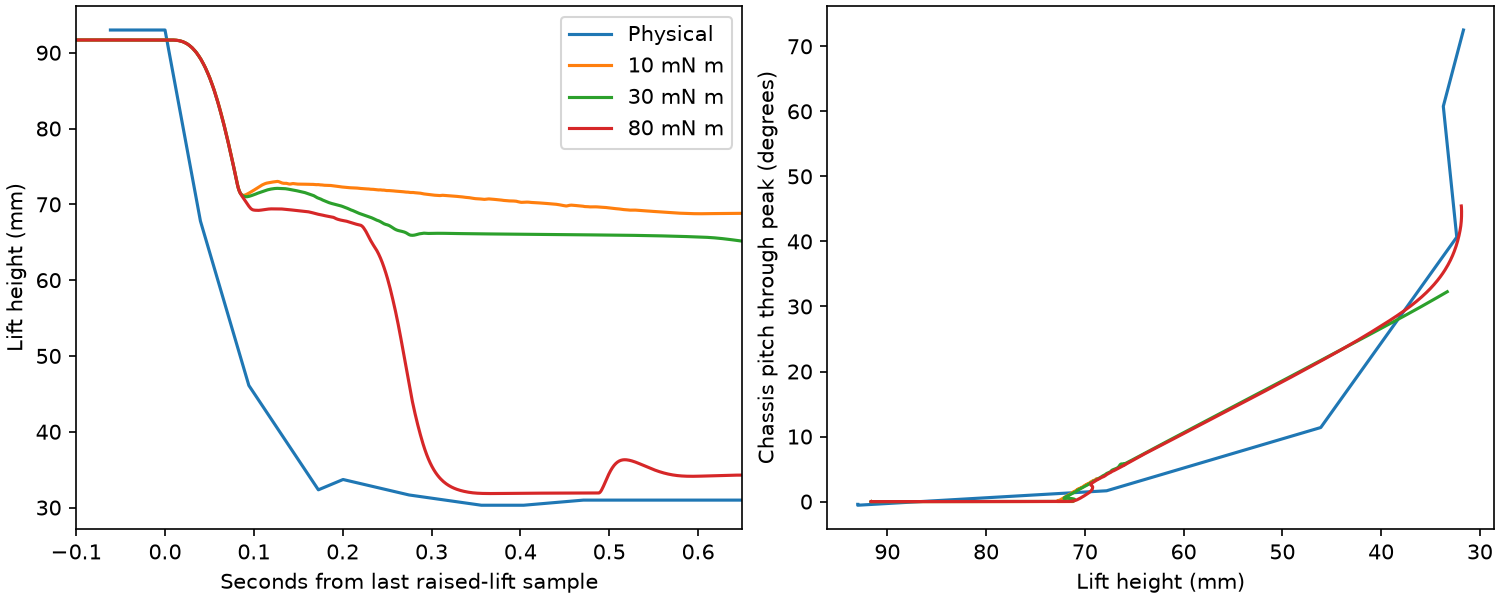
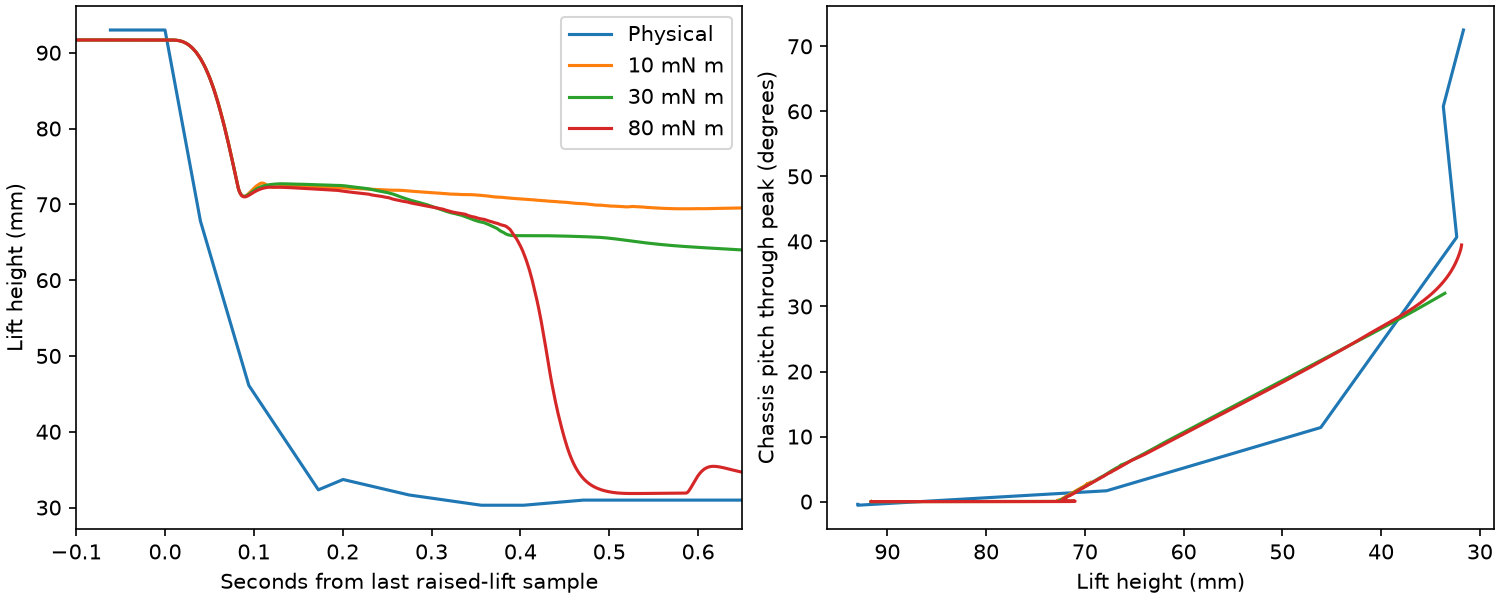
Preserve measured cube yaw in camera-registered wheelstand replay

diff --git a/evidence/unit3-wheelstand/W4/free_chassis.py b/evidence/unit3-wheelstand/W4/free_chassis.py
@@ -49,6 +49,7 @@ if held_out:
 shift=late_onset-4.015283
 target=json.loads((here/'initial-cube.json').read_text())
 w,x,y,z=[target['q'+str(i)] for i in range(4)]
+angle=np.arctan2(2*(w*z+x*y),1-2*(y*y+z*z))
 camera_xy='--camera-xy' in sys.argv[2:]
 if camera_xy:
     if not held_out:
@@ -61,7 +62,6 @@ if camera_xy:
     forward,left=float(ref['forward_mm']),float(ref['left_mm'])
     target['x']=x+forward*np.cos(yaw)-left*np.sin(yaw)
     target['y']=y+forward*np.sin(yaw)+left*np.cos(yaw)
-angle=np.arctan2(2*(w*z+x*y),1-2*(y*y+z*z))
 cube_id=m.body('cube').id
 cube=m.joint('cube_root').qposadr[0]
 def obs(t,k):

diff --git a/evidence/unit3-wheelstand/README.md b/evidence/unit3-wheelstand/README.md
@@ -118,17 +118,17 @@ We transferred W4's four firmware-command cases using W8's own SDK chassis traje
 
 The native frame received 3.065 s after the command shows the raised fork before descent. We registered the four current dock-glyph corners to the published dock geometry with the provisional equidistant lens. The cube top marker center was intersected at 44 mm and the forward end of the fixed backpack lens at 65.5 mm. The transverse line through the raised fork ends supplies chassis heading, with the crown indicating the forward direction. The backpack reference is 36.3 mm behind the front axle. At the nominal picks the cube center lies **49.8 mm forward and 0.5 mm left** of the front axle. The SDK initialization near that instant gave 26.0 forward and 30.8 left. Changing focal length and landmark heights, or moving a single landmark by three pixels, gave 46.6–53.0 mm forward and −7.9 to +10.2 mm left. This sensitivity range is not an absolute accuracy bound. Glare on the backpack, fork endpoint identification, nominal elevations and host timestamp alignment remain uncertainties. [Marked frame](W8/camera-picks.jpg) · [sensitivities](W8/camera-pose.csv).
 
-Using only the nominal relative XY from this precontact photo, we retained the SDK cube yaw and all four frozen W8 replay settings. Initial overlap was zero in all four and settling moved the cube less than 0.001 mm. The simulated fork now loaded the cube and the robot pitched 32.2–32.3°. The recording reached 72.5°. All four simulations produced two tap increments against three recorded; peak specific force was 2.36–2.75 g against 3.06 g. This corrects a demonstrable initialization fault while leaving a large pitch deficit. The physical landing wedge has not been reproduced. [Replay overlay](W8/camera-xy-drive.png) · [metrics](W8/camera-xy-drive.csv) · [initialization checks](W8/camera-xy-contact-check.csv). Run W8/camera_pose.py then the W8 replay with --camera-xy.
+The corrected replay uses camera XY and the 50.67° yaw from the recorded cube quaternion. The earlier script accidentally reused chassis XY as quaternion components and initialized yaw to 132.44°. Replaying that old orientation with the current sensor model reproduced 32.2–32.3° pitch and two taps in all four cases. Initial overlap was zero in all four and settling moved the cube less than 0.001 mm. The simulated fork now loaded the cube and the robot pitched 31.1–32.2°. The recording reached 72.5°. The two later-release simulations reproduced the three recorded tap increments. The earlier pair gave two. Peak specific force spanned 2.06–3.20 g against 3.06 g recorded. This corrects a demonstrable initialization fault while leaving a large pitch deficit. The physical landing wedge has not been reproduced. [Replay overlay](W8/camera-xy-drive.png) · [metrics](W8/camera-xy-drive.csv) · [initialization checks](W8/camera-xy-contact-check.csv). Run W8/camera_pose.py then the W8 replay with --camera-xy.
 
 ### Chassis pitch at matched lift heights
 
-On the first lift descent through 55 mm, the real chassis was pitched 7.3° in W4 and 7.4° in W8. This happened 80 and 72 ms after the last raised-lift sample. At the nominal 30 mN m torque cap, the simulations reached that height only after 1.71 and 1.20 s, with pitch already at 14.7° and 14.6°. The lift slows severely while the real mechanism is still descending quickly. A constant timing shift alone would leave the pitch-at-height discrepancy.
+On the first lift descent through 55 mm, the real chassis was pitched 7.3° in W4 and 7.4° in W8. This happened 80 and 72 ms after the last raised-lift sample. At the nominal 30 mN m torque cap, the simulations reached that height only after 1.71 and 1.35 s, with pitch already at 14.7° and 14.6°. The lift slows severely while the real mechanism is still descending quickly. A constant timing shift alone would leave the pitch-at-height discrepancy.
 
-The previously specified upper bound of 80 mN m brings the simulated 35 mm crossing to 253 and 302 ms versus 151 and 157 ms physically. Pitch at that height agrees more closely (32.1° and 32.8° simulated versus 31.7° and 35.0° measured), but peak pitch reaches only 41.6° and 45.5° versus 72.3° and 72.5°. Torque capacity influences loaded descent; this does not establish a new torque setting. W4 uses SDK initialization, W8 the independent camera XY. Both use the earlier release and later command onset from their original four cases. Crossings are linearly interpolated between samples. SDK timestamps are receipt times and internal command onset is unknown. [W4 overlay](W4/lift-phase.png) · [W8 overlay](W8/lift-phase.png) · [W4 crossings](W4/lift-phase.csv) · [W8 crossings](W8/lift-phase.csv). Append --lift-phase to the firmware replay invocation.
+The previously specified upper bound of 80 mN m brings the simulated 35 mm crossing to 253 and 464 ms versus 151 and 157 ms physically. Pitch at that height agrees more closely (32.1° and 31.8° simulated versus 31.7° and 35.0° measured), but peak pitch reaches only 41.6° and 39.5° versus 72.3° and 72.5°. Torque capacity influences loaded descent; this does not establish a new torque setting. W4 uses SDK initialization, W8 the independent camera XY. Both use the earlier release and later command onset from their original four cases. Crossings are linearly interpolated between samples. SDK timestamps are receipt times and internal command onset is unknown. [W4 overlay](W4/lift-phase.png) · [W8 overlay](W8/lift-phase.png) · [W4 crossings](W4/lift-phase.csv) · [W8 crossings](W8/lift-phase.csv). Append --lift-phase to the firmware replay invocation.
 
 ### How much of the simulated lift delay comes from cube contact?
 
-Each nominal 30 mN m replay was paired with the same run with the cube moved 300 mm laterally out of reach. Both used the earlier release and tested both command onset estimates. With the cube aside, the fork crossed 55 mm in 107–108 ms on W4 and 110 ms on W8. In place, it took 1.61–1.71 s on W4 and 0.99–1.20 s on W8. Within matched pairs the cube added 1.51–1.60 s and 0.88–1.09 s respectively. Peak downward fork load was zero in all four clear runs.
+Each nominal 30 mN m replay was paired with the same run with the cube moved 300 mm laterally out of reach. Both used the earlier release and tested both command onset estimates. With the cube aside, the fork crossed 55 mm in 107–108 ms on W4 and 110 ms on W8. In place, it took 1.61–1.71 s on W4 and 1.20–1.35 s on W8. Within matched pairs the cube added 1.51–1.60 s and 1.09–1.24 s respectively. Peak downward fork load was zero in all four clear runs.
 
 Relative to the two assumed command times, the real loaded crossing lies at 80–145 ms on W4 and 72–133 ms on W8. The simulated unloaded crossing falls inside both ranges. This narrows the discrepancy to the modeled loaded interaction under the tested onset assumptions. It does not distinguish available motor torque from the effective leverage, contact geometry, or support under the tracks. No unloaded physical wheelstand command was recorded. [W4 control](W4/clear-cube.png) · [W8 control](W8/clear-cube.png) · [W4 values](W4/clear-cube.csv) · [W8 values](W8/clear-cube.csv). Add --clear-cube to the firmware replay command.
 
